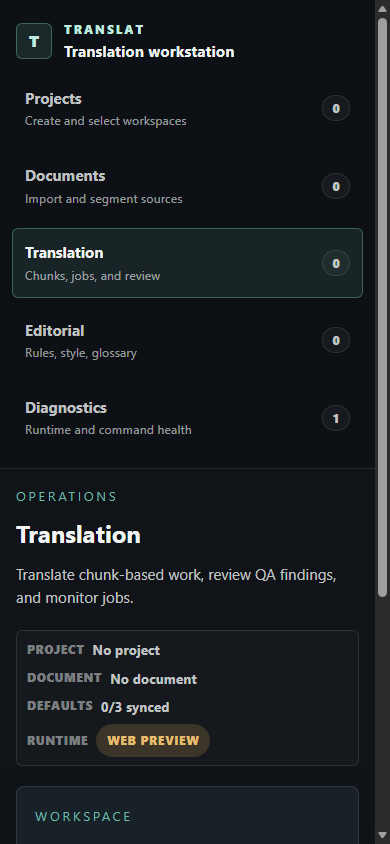
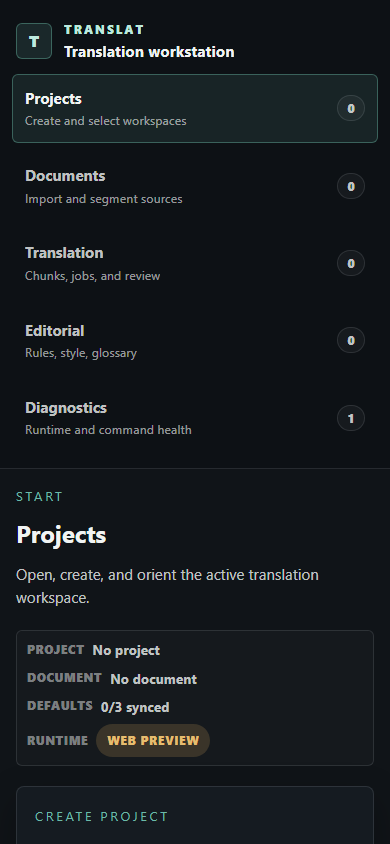
Harden browser preview runtime gating

diff --git a/src/frontend/app/AppShell.tsx b/src/frontend/app/AppShell.tsx
@@ -8,6 +8,7 @@ import { ProjectWorkspace } from "../components/ProjectWorkspace";
 import { RuleSetsWorkspace } from "../components/RuleSetsWorkspace";
 import { StyleProfilesWorkspace } from "../components/StyleProfilesWorkspace";
 import { PanelHeader } from "../components/ui/PanelHeader";
+import { PanelMessage } from "../components/ui/PanelMessage";
 import { StatusBadge } from "../components/ui/StatusBadge";
 import { useDocumentChunks } from "../hooks/useDocumentChunks";
 import { useDocumentSegments } from "../hooks/useDocumentSegments";
@@ -38,6 +39,25 @@ interface NavigationItem {
   description: string;
   id: ShellView;
   label: string;
+}
+
+function BrowserPreviewRuntimePanel() {
+  return (
+    <section className="surface-card surface-card--split app-shell__runtime-preview-card">
+      <PanelHeader
+        description="This browser preview can validate layout and copy, but persisted project, document, editorial library, translation, QA, and export commands require the Tauri desktop runtime."
+        eyebrow="Browser preview"
+        title="Desktop runtime required."
+        titleLevel={2}
+      />
+
+      <PanelMessage tone="warning" title="Command controls disabled">
+        Open the desktop app to import documents, segment sources, edit
+        libraries, run translation jobs, inspect QA, or export files.
+        Diagnostics remains available here to show the runtime state.
+      </PanelMessage>
+    </section>
+  );
 }
 
 const SHELL_VIEW_COPY: Record<ShellView, ShellViewCopy> = {
@@ -545,114 +565,124 @@ export function AppShell() {
               activeView !== "diagnostics"
             }
           >
-            <ProjectWorkspace
-              activeDocument={activeDocument}
-              chunkError={chunkError}
-              chunkSegments={chunkSegments}
-              chunks={chunks}
-              documents={documents}
-              importError={importError}
-              isBuildingChunks={isBuildingChunks}
-              isImportingDocuments={isImporting}
-              isLoadingDocuments={isLoadingDocuments}
-              isLoadingChunks={isLoadingChunks}
-              isLoadingSegments={isLoadingSegments}
-              isSavingEditorialDefaults={isSavingEditorialDefaults}
-              loadError={loadError}
-              glossaries={glossaries}
-              onBuildChunks={buildChunks}
-              onDirtyChange={setHasUnsavedProjectDefaults}
-              onOpenDocument={openDocument}
-              onSyncDocumentState={refreshDocument}
-              onImportDocuments={handleImportDocuments}
-              onProcessDocument={handleProcessDocument}
-              onSelectChunk={selectChunk}
-              onSaveEditorialDefaults={saveProjectEditorialDefaults}
-              onSelectSection={selectSection}
-              onSelectSegment={selectSegment}
-              processError={processError}
-              processingDocumentId={processingDocumentId}
-              project={activeProject}
-              projectError={projectError}
-              ruleSets={ruleSets}
-              segmentError={segmentError}
-              segmentLoadingDocumentId={
-                isLoadingSegments ? (activeDocument?.id ?? null) : null
-              }
-              sections={sections}
-              selectedChunk={selectedChunk}
-              selectedChunkId={selectedChunkId}
-              selectedChunkSegments={selectedChunkSegments}
-              selectedSection={selectedSection}
-              segments={segments}
-              selectedSegment={selectedSegment}
-              selectedSegmentId={selectedSegmentId}
-              showOperationalDebug={activeView === "diagnostics"}
-              styleProfiles={styleProfiles}
-              viewMode={
-                activeView === "diagnostics"
-                  ? "operational-debug"
-                  : activeView === "translation"
-                    ? "translation-workspace"
-                    : "document-workspace"
-              }
-            />
+            {isDesktopRuntimeUnavailable && activeView !== "diagnostics" ? (
+              <BrowserPreviewRuntimePanel />
+            ) : (
+              <ProjectWorkspace
+                activeDocument={activeDocument}
+                chunkError={chunkError}
+                chunkSegments={chunkSegments}
+                chunks={chunks}
+                documents={documents}
+                importError={importError}
+                isBuildingChunks={isBuildingChunks}
+                isImportingDocuments={isImporting}
+                isLoadingDocuments={isLoadingDocuments}
+                isLoadingChunks={isLoadingChunks}
+                isLoadingSegments={isLoadingSegments}
+                isSavingEditorialDefaults={isSavingEditorialDefaults}
+                loadError={loadError}
+                glossaries={glossaries}
+                onBuildChunks={buildChunks}
+                onDirtyChange={setHasUnsavedProjectDefaults}
+                onOpenDocument={openDocument}
+                onSyncDocumentState={refreshDocument}
+                onImportDocuments={handleImportDocuments}
+                onProcessDocument={handleProcessDocument}
+                onSelectChunk={selectChunk}
+                onSaveEditorialDefaults={saveProjectEditorialDefaults}
+                onSelectSection={selectSection}
+                onSelectSegment={selectSegment}
+                processError={processError}
+                processingDocumentId={processingDocumentId}
+                project={activeProject}
+                projectError={projectError}
+                ruleSets={ruleSets}
+                segmentError={segmentError}
+                segmentLoadingDocumentId={
+                  isLoadingSegments ? (activeDocument?.id ?? null) : null
+                }
+                sections={sections}
+                selectedChunk={selectedChunk}
+                selectedChunkId={selectedChunkId}
+                selectedChunkSegments={selectedChunkSegments}
+                selectedSection={selectedSection}
+                segments={segments}
+                selectedSegment={selectedSegment}
+                selectedSegmentId={selectedSegmentId}
+                showOperationalDebug={activeView === "diagnostics"}
+                styleProfiles={styleProfiles}
+                viewMode={
+                  activeView === "diagnostics"
+                    ? "operational-debug"
+                    : activeView === "translation"
+                      ? "translation-workspace"
+                      : "document-workspace"
+                }
+              />
+            )}
           </div>
 
           <div
             className="app-shell__view app-shell__view--libraries"
             hidden={activeView !== "libraries"}
           >
-            <RuleSetsWorkspace
-              activeRuleSet={activeRuleSet}
-              activeRuleSetCount={activeRuleSetCount}
-              archivedRuleSetCount={archivedRuleSetCount}
-              error={ruleSetError}
-              isCreating={isCreatingRuleSet}
-              isLoading={isLoadingRuleSets}
-              isSaving={isSavingRuleSet}
-              onOpenRuleSet={selectRuleSet}
-              onReloadRuleSets={reloadRuleSets}
-              onSubmitRuleSet={submitRuleSet}
-              onUpdateRuleSet={saveRuleSet}
-              openingRuleSetId={openingRuleSetId}
-              ruleSets={ruleSets}
-              totalRuleSetCount={totalRuleSetCount}
-            />
+            {isDesktopRuntimeUnavailable ? (
+              <BrowserPreviewRuntimePanel />
+            ) : (
+              <>
+                <RuleSetsWorkspace
+                  activeRuleSet={activeRuleSet}
+                  activeRuleSetCount={activeRuleSetCount}
+                  archivedRuleSetCount={archivedRuleSetCount}
+                  error={ruleSetError}
+                  isCreating={isCreatingRuleSet}
+                  isLoading={isLoadingRuleSets}
+                  isSaving={isSavingRuleSet}
+                  onOpenRuleSet={selectRuleSet}
+                  onReloadRuleSets={reloadRuleSets}
+                  onSubmitRuleSet={submitRuleSet}
+                  onUpdateRuleSet={saveRuleSet}
+                  openingRuleSetId={openingRuleSetId}
+                  ruleSets={ruleSets}
+                  totalRuleSetCount={totalRuleSetCount}
+                />
 
-            <StyleProfilesWorkspace
-              activeStyleProfile={activeStyleProfile}
-              activeStyleProfileCount={activeStyleProfileCount}
-              archivedStyleProfileCount={archivedStyleProfileCount}
-              error={styleProfileError}
-              isCreating={isCreatingStyleProfile}
-              isLoading={isLoadingStyleProfiles}
-              isSaving={isSavingStyleProfile}
-              onOpenStyleProfile={selectStyleProfile}
-              onSubmitStyleProfile={submitStyleProfile}
-              onUpdateStyleProfile={saveStyleProfile}
-              openingStyleProfileId={openingStyleProfileId}
-              styleProfiles={styleProfiles}
-              totalStyleProfileCount={totalStyleProfileCount}
-            />
+                <StyleProfilesWorkspace
+                  activeStyleProfile={activeStyleProfile}
+                  activeStyleProfileCount={activeStyleProfileCount}
+                  archivedStyleProfileCount={archivedStyleProfileCount}
+                  error={styleProfileError}
+                  isCreating={isCreatingStyleProfile}
+                  isLoading={isLoadingStyleProfiles}
+                  isSaving={isSavingStyleProfile}
+                  onOpenStyleProfile={selectStyleProfile}
+                  onSubmitStyleProfile={submitStyleProfile}
+                  onUpdateStyleProfile={saveStyleProfile}
+                  openingStyleProfileId={openingStyleProfileId}
+                  styleProfiles={styleProfiles}
+                  totalStyleProfileCount={totalStyleProfileCount}
+                />
 
-            <GlossaryWorkspace
-              activeGlossary={activeGlossary}
-              activeGlossaryCount={activeGlossaryCount}
-              archivedGlossaryCount={archivedGlossaryCount}
-              error={glossaryError}
-              glossaries={glossaries}
-              isCreating={isCreatingGlossary}
-              isLoading={isLoadingGlossaries}
-              isSaving={isSavingGlossary}
-              onOpenGlossary={selectGlossary}
-              onSubmitGlossary={submitGlossary}
-              onUpdateGlossary={saveGlossary}
-              openingGlossaryId={openingGlossaryId}
-              onReloadGlossaries={reloadGlossaries}
-              projects={projects}
-              totalGlossaryCount={totalGlossaryCount}
-            />
+                <GlossaryWorkspace
+                  activeGlossary={activeGlossary}
+                  activeGlossaryCount={activeGlossaryCount}
+                  archivedGlossaryCount={archivedGlossaryCount}
+                  error={glossaryError}
+                  glossaries={glossaries}
+                  isCreating={isCreatingGlossary}
+                  isLoading={isLoadingGlossaries}
+                  isSaving={isSavingGlossary}
+                  onOpenGlossary={selectGlossary}
+                  onSubmitGlossary={submitGlossary}
+                  onUpdateGlossary={saveGlossary}
+                  openingGlossaryId={openingGlossaryId}
+                  onReloadGlossaries={reloadGlossaries}
+                  projects={projects}
+                  totalGlossaryCount={totalGlossaryCount}
+                />
+              </>
+            )}
           </div>
 
           {activeView === "diagnostics" ? (

diff --git a/src/frontend/components/HealthcheckPanel.tsx b/src/frontend/components/HealthcheckPanel.tsx
@@ -1,5 +1,8 @@
 import type { HealthcheckResponse } from "../../shared/desktop";
-import type { DesktopCommandError } from "../lib/desktop";
+import {
+  DESKTOP_RUNTIME_UNAVAILABLE_CODE,
+  type DesktopCommandError,
+} from "../lib/desktop";
 import { ActionButton } from "./ui/ActionButton";
 import { PanelHeader } from "./ui/PanelHeader";
 import { PanelMessage } from "./ui/PanelMessage";
@@ -21,6 +24,10 @@ function getStatusLabel(
     return "checking";
   }
 
+  if (error?.code === DESKTOP_RUNTIME_UNAVAILABLE_CODE) {
+    return "web preview";
+  }
+
   if (error) {
     return "error";
   }
@@ -37,6 +44,10 @@ function getStatusTone(
     return "info";
   }
 
+  if (error?.code === DESKTOP_RUNTIME_UNAVAILABLE_CODE) {
+    return "warning";
+  }
+
   if (error) {
     return "danger";
   }
@@ -50,6 +61,11 @@ export function HealthcheckPanel({
   isLoading,
   onRetry,
 }: HealthcheckPanelProps) {
+  const isRuntimeUnavailable = error?.code === DESKTOP_RUNTIME_UNAVAILABLE_CODE;
+  const errorDetails = isRuntimeUnavailable
+    ? "Tauri desktop bridge unavailable in this browser preview."
+    : (error?.details ?? "No desktop error reported.");
+
   return (
     <section
       className="surface-card surface-card--accent"
@@ -71,7 +87,15 @@ export function HealthcheckPanel({
 
       <PanelMessage
         className="health-panel__message"
-        tone={error ? "danger" : isLoading ? "info" : "neutral"}
+        tone={
+          isRuntimeUnavailable
+            ? "warning"
+            : error
+              ? "danger"
+              : isLoading
+                ? "info"
+                : "neutral"
+        }
       >
         {error?.message ??
           healthcheck?.message ??
@@ -107,7 +131,7 @@ export function HealthcheckPanel({
         </div>
         <div>
           <dt>Error details</dt>
-          <dd>{error?.details ?? "No desktop error reported."}</dd>
+          <dd>{errorDetails}</dd>
         </div>
       </dl>
 

diff --git a/src/frontend/lib/desktop.ts b/src/frontend/lib/desktop.ts
@@ -110,10 +110,20 @@ function isDesktopRuntimeUnavailableError(
     return false;
   }
 
-  return (
-    caughtError.message.includes("Cannot read properties of undefined") &&
-    caughtError.message.includes("invoke")
-  );
+  const message = caughtError.message.toLowerCase();
+  const isBridgeIdentifier =
+    message.includes("invoke") ||
+    message.includes("ipc") ||
+    message.includes("__tauri") ||
+    message.includes("tauri");
+  const isUnavailableShape =
+    message.includes("undefined") ||
+    message.includes("not defined") ||
+    message.includes("not a function") ||
+    message.includes("not available") ||
+    message.includes("unavailable");
+
+  return isBridgeIdentifier && isUnavailableShape;
 }
 
 function normalizeDesktopCommandError(

diff --git a/docs/product/TR-34-visual-validation.md b/docs/product/TR-34-visual-validation.md
@@ -40,7 +40,7 @@ Validation date: 2026-04-21.
 | `npm run build` | Blocked | `tauri build` panics in `tauri-cli` at `crates\tauri-cli\src\interface\rust.rs:1149:14` after the same toolchain issue. |
 
 ## Browser Runtime Findings
-The browser preview renders the redesigned shell without a blank screen at desktop and mobile sizes. Because this is a web preview, desktop commands cannot run without the Tauri bridge; persistence actions are disabled and surfaced as explicit browser-preview runtime states rather than raw command failures. Runtime unavailability is inferred from the actual `invoke` failure path, not from a narrow `window.__TAURI__` global probe, so supported desktop builds can still call the imported Tauri API.
+The browser preview renders the redesigned shell without a blank screen at desktop and mobile sizes. Because this is a web preview, desktop commands cannot run without the Tauri bridge; persistence actions are disabled and surfaced as explicit browser-preview runtime states rather than raw command failures. Runtime unavailability is inferred from the actual `invoke` failure path, not from a narrow `window.__TAURI__` global probe, so supported desktop builds can still call the imported Tauri API. Browser-preview gating applies to the whole command surface: Projects disables creation, Documents/Translation/Editorial render a non-interactive runtime-required panel, and Diagnostics remains available for runtime inspection with sanitized bridge-unavailable details.
 
 Desktop viewport:
 - Left navigation, compact operational context, project composer, and active workspace overview are visible in the first viewport.
@@ -84,7 +84,7 @@ Intermediate responsive viewport:
 ## Accessibility And Layout Review
 - The shell uses real buttons for navigation, project actions, document rows, chunk rows, and job/QA actions.
 - Disabled operational states are explicit for non-segmented documents, missing chunks, inactive jobs, and unavailable export.
-- Browser preview disables persistence commands when the Tauri desktop bridge is unavailable, guards form submit paths, and shows a clear runtime message.
+- Browser preview disables persistence commands across the shell when the Tauri desktop bridge is unavailable, guards form submit paths, and shows a clear runtime message instead of raw `invoke` exceptions.
 - Semantic status colors are restrained and consistent with TR-31 roles: info for progress, success for ready/completed, warning for blocked/incomplete, danger for incidents.
 - Dense workstation layout is preserved on desktop through left navigation, compact operational context, and the three-zone Translation Workspace.
 - Mobile layout stacks major regions and avoids horizontal overflow in the captured state.
